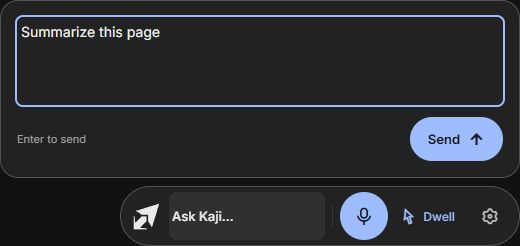
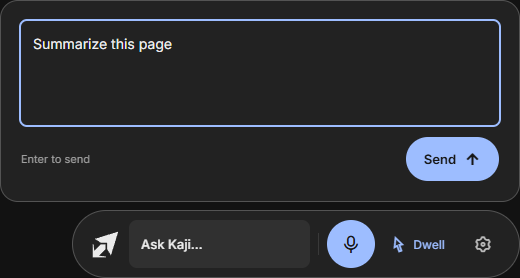
test(app): guard composer spacing and close

diff --git a/app/scripts/capture-composer.ts b/app/scripts/capture-composer.ts
@@ -41,7 +41,7 @@ async function assertInside() {
 }
 async function fitNativeFrame(panelWidth: number, scale: number) {
   const panelHeight = await page.locator('.composer-panel').evaluate((element: HTMLElement) => Math.min(element.scrollHeight + 2, 400));
-  await page.setViewportSize({ width: Math.ceil((panelWidth + 24) * scale), height: Math.ceil((92 + panelHeight) * scale) });
+  await page.setViewportSize({ width: Math.ceil((panelWidth + 24) * scale), height: Math.ceil((100 + panelHeight) * scale) });
   await assertInside();
   await expect.poll(() => page.locator('.composer-panel').evaluate((element: HTMLElement) => element.scrollHeight - element.clientHeight)).toBeLessThanOrEqual(1);
 }
@@ -54,7 +54,7 @@ try {
   await page.reload();
   await expect(page.locator('html')).toHaveAttribute('data-theme', 'dark');
   const pill = await page.locator('.composer-pill').boundingBox();
-  assert.equal(pill!.width, 400); assert.equal(pill!.height, 60);
+  assert.equal(pill!.width, 448); assert.equal(pill!.height, 68);
   for (const button of await page.locator('.composer-pill button').all()) {
     const box = (await button.boundingBox())!;
     assert.ok(box.width >= 44 && box.height >= 44, 'Control target is too small');
@@ -80,7 +80,13 @@ try {
   await expect(page.getByRole('button', { name: 'Type a request', exact: true })).toBeFocused();
   await page.getByRole('button', { name: 'Open Kaji', exact: true }).click();
   await expect(page.locator('h1')).toBeVisible();
-  await page.getByRole('button', { name: 'Composer', exact: true }).click();
+  await page.getByRole('button', { name: 'Close', exact: true }).click();
+  await expect(page).toHaveURL(/composer\.html$/);
+  await page.getByRole('button', { name: 'Open Kaji', exact: true }).click();
+  await page.getByRole('button', { name: 'Settings', exact: true }).click();
+  await expect(page).toHaveURL(/settings\.html/);
+  await page.getByRole('button', { name: 'Close', exact: true }).click();
+  await expect(page).toHaveURL(/composer\.html$/);
   assert.equal(context.pages().length, 1);
   await page.getByRole('button', { name: 'Type a request', exact: true }).click();
   await expect(page.getByRole('textbox', { name: 'Your request', exact: true })).toHaveValue('Summarize this page');
@@ -147,7 +153,7 @@ try {
       if (size === 100) await screenshot(`editor-${placement}-light`);
       await fitNativeFrame(520, size / 100);
       await update({ question });
-      await fitNativeFrame(440, size / 100);
+      await fitNativeFrame(448, size / 100);
     }
   }
   await page.evaluate(() => { localStorage.setItem('kaji_settings', JSON.stringify({ theme: 'light', composer_position: 'floating', composer_size: 100, composer_opacity: 100 })); sessionStorage.removeItem('kaji-composer-question'); });
@@ -163,6 +169,45 @@ try {
   const motionPage = await motionContext.newPage();
   await motionPage.goto(`${origin}/composer.html`);
   const prompt = motionPage.getByRole('button', { name: 'Type a request', exact: true });
+  await motionPage.evaluate(() => document.fonts.ready);
+  async function inputGeometry(selector: string) {
+    return motionPage.locator(selector).evaluate((element: HTMLElement) => {
+      const rect = element.getBoundingClientRect();
+      const style = getComputedStyle(element);
+      const text = element.querySelector('span');
+      const textRect = text?.getBoundingClientRect();
+      return { width: rect.width, height: rect.height, padding: style.padding, font: style.font,
+        transform: style.transform, textX: textRect ? textRect.x - rect.x : null, textWidth: textRect?.width };
+    });
+  }
+  await motionPage.mouse.move(0, 0);
+  const idleGeometry = await inputGeometry('.composer-prompt');
+  await prompt.hover();
+  for (let frame = 0; frame < 12; frame++) {
+    await motionPage.evaluate(() => new Promise(requestAnimationFrame));
+    assert.deepEqual(await inputGeometry('.composer-prompt'), idleGeometry, 'Hover changed the input geometry');
+  }
+  await motionPage.mouse.down();
+  assert.deepEqual(await inputGeometry('.composer-prompt'), idleGeometry, 'Press scaled the input text');
+  await motionPage.mouse.up();
+  await expect(motionPage.getByRole('textbox', { name: 'Your request', exact: true })).toBeFocused();
+  await motionPage.locator('.composer-panel').evaluate((element: HTMLElement) => {
+    for (const animation of element.getAnimations()) {
+      animation.pause();
+      const widths: number[] = [];
+      for (const time of [0, 50, 125, 195, 250]) {
+        animation.currentTime = time;
+        widths.push(element.querySelector('textarea')!.getBoundingClientRect().width);
+      }
+      if (new Set(widths).size !== 1) throw new Error(`Editor text scales during expansion: ${widths}`);
+      animation.finish();
+    }
+  });
+  await motionPage.mouse.move(0, 0);
+  const editorGeometry = await inputGeometry('#composer-input');
+  await motionPage.locator('#composer-input').hover();
+  assert.deepEqual(await inputGeometry('#composer-input'), editorGeometry, 'Editor hover changed the input geometry');
+  await motionPage.keyboard.press('Escape');
   await prompt.click();
   await expect(motionPage.getByRole('textbox', { name: 'Your request', exact: true })).toBeFocused();
   await prompt.click();
@@ -176,7 +221,7 @@ try {
   assert.equal(await motionPage.locator('.composer-panel').evaluate((element: HTMLElement) => element.getAnimations().length), 0, 'Keyboard expansion should be instant');
   await motionContext.close();
   assert.deepEqual(errors, []);
-  console.log('Composer checks passed: fixed controls, states, draft recovery, questions, correction updates, confirmation, sizing, navigation and no browser errors.');
+  console.log('Composer checks passed: fixed input geometry, unscaled text, spacing, close-to-pill navigation, draft recovery, questions, confirmation, sizing and no browser errors.');
 } finally {
   await browser.close();
   server.stop(true);
